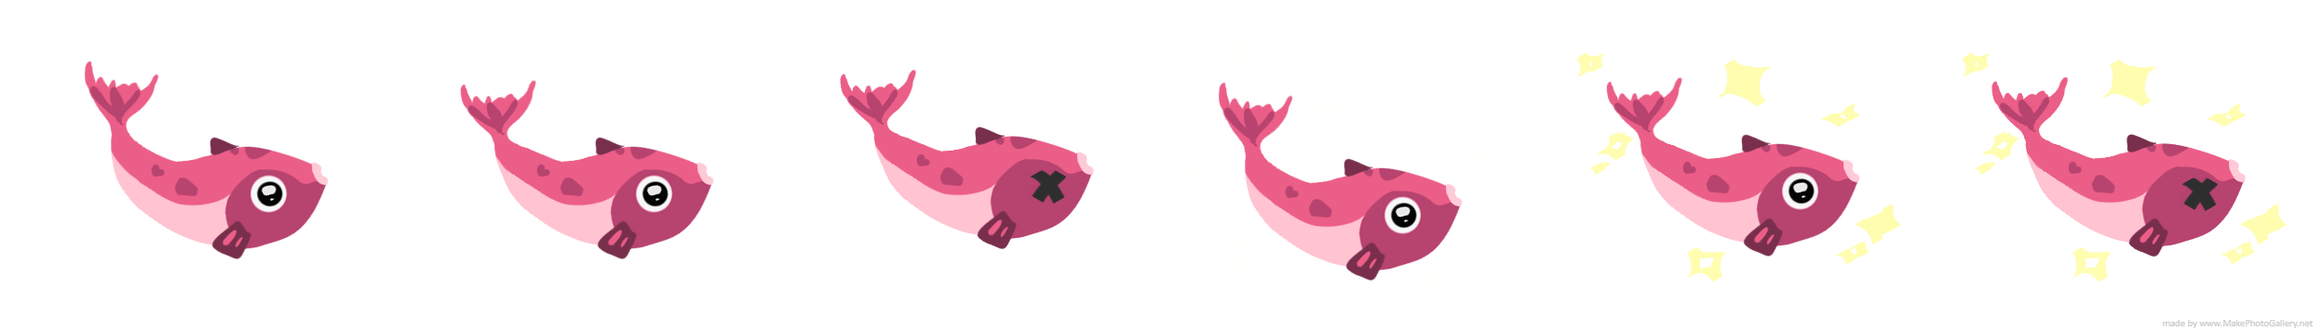
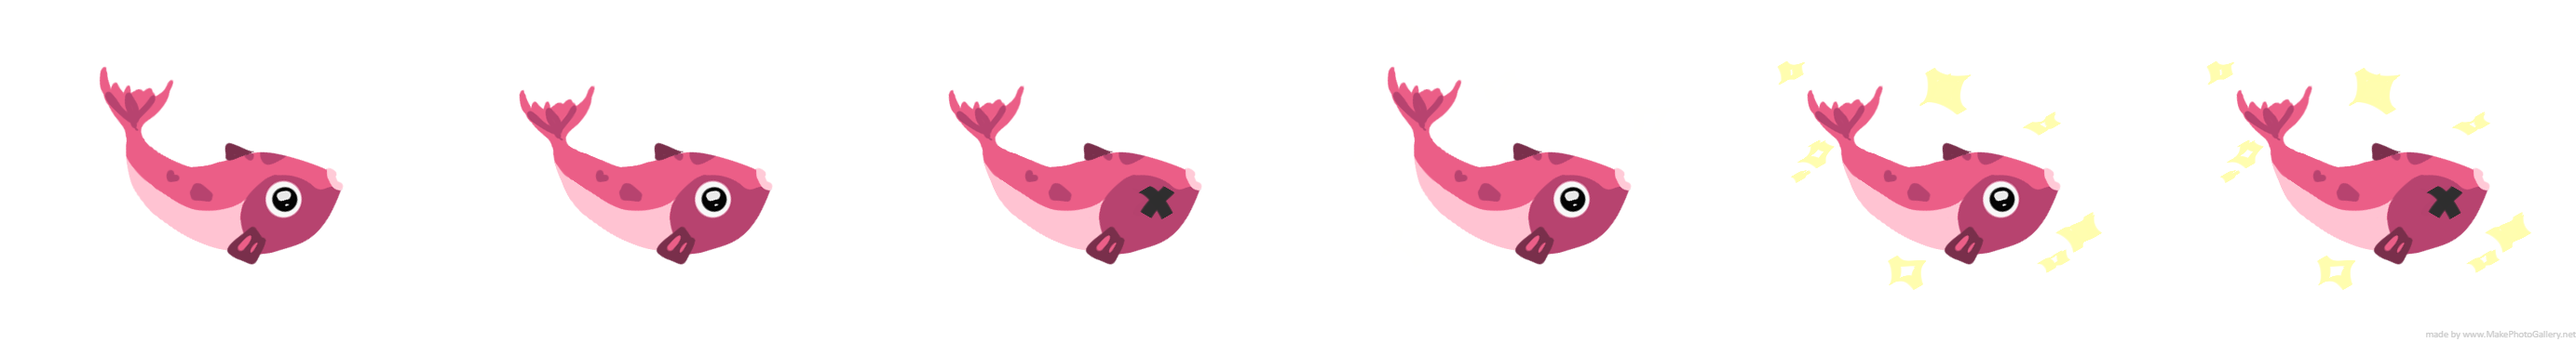
優化version3.0

diff --git a/public/coolgame/game.js b/public/coolgame/game.js
@@ -20,7 +20,7 @@
   var animal_list = new Array() ;
   var bubble_list =new Array();
   var loader ;
-  var animalsource;
+  var animalsource = new Array();
   var canvas_width = 800;
   var canvas_height=500;
   var canvas_seaheight=150;
@@ -44,66 +44,46 @@
 
     //------------game---------------------------------
     
-  class Animal  extends createjs.Bitmap{
+  class Animal  extends createjs.Sprite{
     constructor(type,special){
       if(special)
-        super("/images/coolgame/"+animalsource[type].special[0]);
+        super(animalsource[type].spritesheet,"special");
       else
-        super("/images/coolgame/"+animalsource[type].image[0]);
-        this.regX = this.image.width/2;
-        this.regY = this.image.height/2;
+        super(animalsource[type].spritesheet,"normal");
       this.special=special;
       this.animaltype = type;
-      this.im_index =0;
-      this.t_change = setInterval(()=>{
-        this.regX = this.image.width/2;
-        this.regY = this.image.height/2;
-        if(this.im_index == animalsource[this.animaltype].image.length-1)
-          this.im_index=0;
-        else this.im_index++;
-        if(getrandom(100)<3){
-          this.dic *=-1;
-          this.scaleX*=-1;
-        };
-        if(this.special)
-           this.image.src = "/images/coolgame/"+animalsource[this.animaltype].special[this.im_index];
-        else
-           this.image.src = "/images/coolgame/"+animalsource[this.animaltype].image[this.im_index];
-      },200);
       this.t_move=setInterval(()=> {
-        if((this.x>canvas_width+100)||(this.x<-100)){
+        if(this.x>(canvas_width+100)||(this.x<-100)){
           clearInterval(this.t_move);
-          clearInterval(this.t_changeimage);
           animal_list = arrayRemove(animal_list,this);
           stage.removeChild(this);
         }
         else{
+          if(getrandom(1000)<5){
+            this.dic *=-1;
+            this.scaleX*=-1;
+          };
           if(this.dic ==1)this.x += this.speed;
           else this.x-=this.speed;
         }
       }, 20);
       stage.addChild(this);
-
     }
-    catch(a){
-      clearInterval(this.t_change);
+    catch(){
       clearInterval(this.t_move);
-      this.image.src =  "/images/coolgame/"+animalsource[this.animaltype].die;
+      this.gotoAndStop(this.special == true?"special_die":"normal_die");
     }
   }
   class harpoon extends createjs.Bitmap{
     constructor(){
       super(loader.getResult("harpoon"));
       this.moveable=false;
+      this.regX = this.getwidth()/2;
+      this.regY = this.getheight()/2;
       this.scaleX = this.scaleY =0.16;
-      this.regX=this.image.width/2 ;// harpoon.image.width*harpoon.scaleX/2;
-      this.regY=this.image.height/2;
-      this.x = fisherman.x+25*(fisherman.scaleX<0?1:-1);//-harpoon.image.width*harpoon.scaleX/2;
-      this.y = fisherman.y;//-harpoon.image.height*harpoon.scaleX/2;
+      this.x = fisherman.x+25*(fisherman.scaleX<0?1:-1);
+      this.y = fisherman.y-5;
       stage.addChildAt(this,2);
-      this.image.onload=()=>{
-        stage.update();
-      }
     }
     move(x,y,c,v){
       this.moveable =true;
@@ -149,43 +129,38 @@
       this.scale=0.12;
       this.speed=2;
       this.alpha=0.8;
-      this.regX = this.image.width/2;
-      this.regY = this.image.height/2;
       this.dic =1;
       if(getrandom(2) == 1){
-        this.x=-this.getwidth();
+        this.x = -100;
         this.dic =1;
       }
       else{ 
-        this.x=this.getwidth()+canvas_width;
+        this.x =canvas_width+100;
         this.dic =-1;
         this.scaleX *=-1;
       }
-      this.y=getrandom(300-this.getheight()/2)+200;
-      this.regX = this.image.width/2;
-      this.regY = this.image.height/2;
+      //this.y =200;
+        this.width = animalsource[type].spritesheet.getFrame(animalsource[type].spritesheet.getAnimation(special==true?"special":"normal").frames[0]).rect.width;
+        this.height = animalsource[type].spritesheet.getFrame(animalsource[type].spritesheet.getAnimation(special==true?"special":"normal").frames[0]).rect.height;
+        this.y=getrandom(500-(200+this.height*this.scale)*2)+200+this.height*this.scale;
     }
   }
   class bird extends Animal{
     constructor(type,special){
       super(type,special);
       this.scale=0.16;
-      this.regX = this.image.width/2;
-      this.regY = this.image.height/2;
       this.speed=4;
       this.alpha=0.85;
       if(getrandom(2) == 1){
-        this.x=-this.getwidth()/2;
+        this.x=-90;
         this.dic =1;
       }
       else{ 
-        this.x=this.getwidth()/2+canvas_width;
+        this.x=90;
         this.dic =-1;
         this.scaleX *=-1;
       }
       this.y=getrandom(50)+50;
-      this.regX = this.image.width/2;
-      this.regY = this.image.height/2;
     }
   }
   function mousemove(event) {
@@ -296,7 +271,7 @@
             }
           }
         }
-        if (harpoon_list[i].y-harpoon_list[i].image.height*harpoon_list[i].scaleY/2 >= stage.canvas.height || harpoon_list[i].y+harpoon_list[i].image.height*harpoon_list[i].scaleY/2 <= 0 || harpoon_list[i].x-harpoon_list[i].image.height*harpoon_list[i].scaleX/2 >= stage.canvas.width||harpoon_list[i].x+harpoon_list[i].image.height*harpoon_list[i].scaleX/2 <= 0) {
+        if (harpoon_list[i].y-harpoon_list[i].image.height*harpoon_list[i].scaleY/2 >= canvas_height || harpoon_list[i].y+harpoon_list[i].image.height*harpoon_list[i].scaleY/2 <= 0 || harpoon_list[i].x-harpoon_list[i].image.height*harpoon_list[i].scaleX/2 >= canvas_width||harpoon_list[i].x+harpoon_list[i].image.height*harpoon_list[i].scaleX/2 <= 0) {
           this.moveable=false;
           stage.removeChild(harpoon_list[i]);
           harpoon_list=arrayRemove(harpoon_list,harpoon_list[i]);
@@ -317,10 +292,11 @@
     generate_fish = setInterval(()=>{
       rnd =getrandom(120);
       if(rnd<24){
+        console.log("fish");
         if(rnd<2)
-        animal_list.push(new fish(getrandom(4)+1,true));
+        animal_list.push(new fish(0,true));
         else
-        animal_list.push(new fish(getrandom(4)+1,false));
+        animal_list.push(new fish(0,false));
       }
    },200);
   }
@@ -350,23 +326,15 @@
       {src: "/images/coolgame/fish2.png", id: "fish2"},
       {src: "/images/coolgame/fish3.png", id: "fish3"},
       {src: "/images/coolgame/fish4.png", id: "fish4"},
-      {src: "/images/coolgame/bird.png", id: "bird"}
+      {src: "/images/coolgame/bird.png", id: "bird"},
+      {src: "/images/coolgame/harpoon.png", id: "harpoon"}
     ];
     loader = new createjs.LoadQueue(true);
     loader.on("fileload", handleFileLoad);
     loader.on("complete", handleComplete);
     loader.on("error", handleError);
     loader.loadManifest(manifest);
-    var fish_spriteSheet = new createjs.SpriteSheet({
-      framerate: 30,
-  	"images": [loader.getResult("fish1")],
-  	"frames": [[0,0,291,233]],
-  	"animations": {
-		"run": [0, 25, "run", 1.5],
-		"jump": [26, 63, "run"]
-	}
-    });
-    animalsource.push({type:0,});
+  
   }
   function handleFileLoad(e){
     console.log("complete1");
@@ -378,8 +346,30 @@
   function handleError(){
     console.log("erreo");
   }
+  var fish1_spriteSheet ;
+  var fishh;
   function init(){
+    var data ={
+      images: [loader.getResult("fish1")],
+      frames: {width:461,height:368,regX:230,regY:189},
+      animations: {
+      normal:{
+        frames:[0,1],speed:0.1
+      },
+      special: {
+        frames:[3,4],speed:0.1
+      },
+      special_die:{
+        frames:[5],speed:0.1
+      },
+      normal_die:{
+        frames:[2],speed:0.01
+      }
+    }
+      };
+    fish1_spriteSheet = new createjs.SpriteSheet(data);
     stage = new createjs.Stage(document.getElementById("gameStage"));
+    animalsource.push({type:0,spritesheet:fish1_spriteSheet});
     backbround = new createjs.Bitmap(loader.getResult("game_background"));
     fisherman = new createjs.Bitmap(loader.getResult("fisherman"));
     sea = new createjs.Bitmap(loader.getResult("sea"));
@@ -407,7 +397,7 @@
     document.onkeyup = keyUp;
     openbubble();
     openfish();
-    openbird();
+    //openbird();
     setInterval(() => {
       update();
     }, 20);
